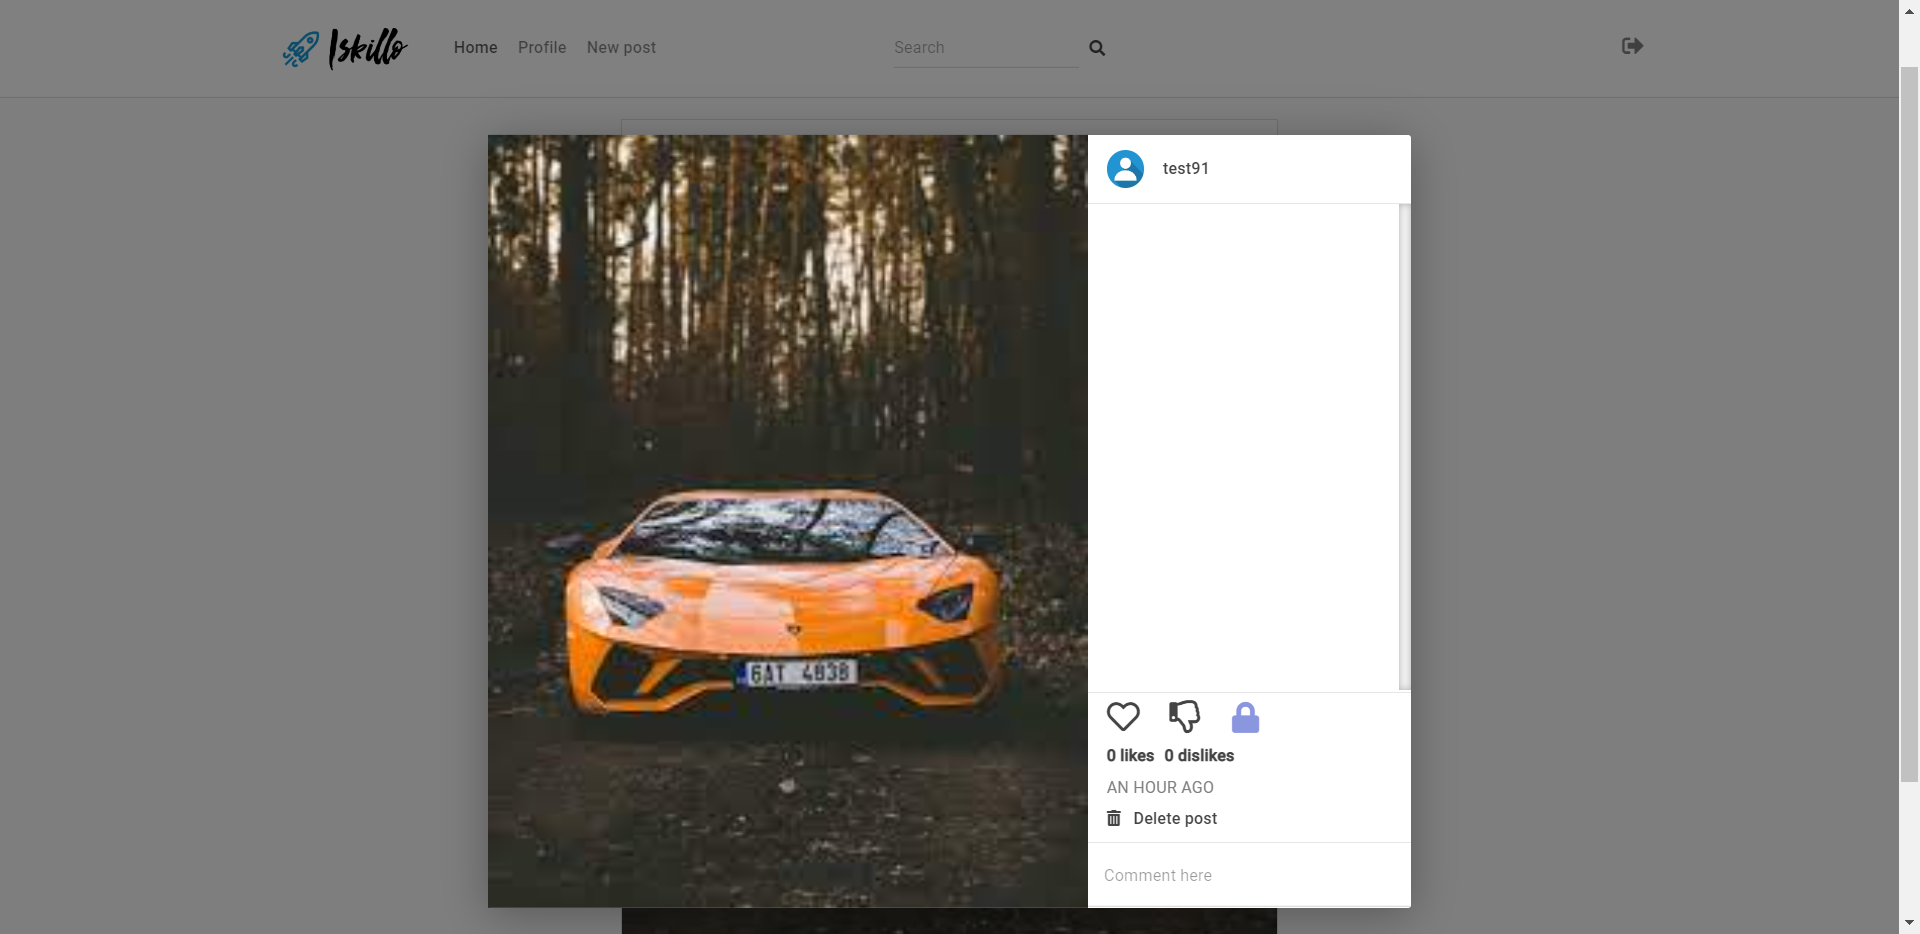
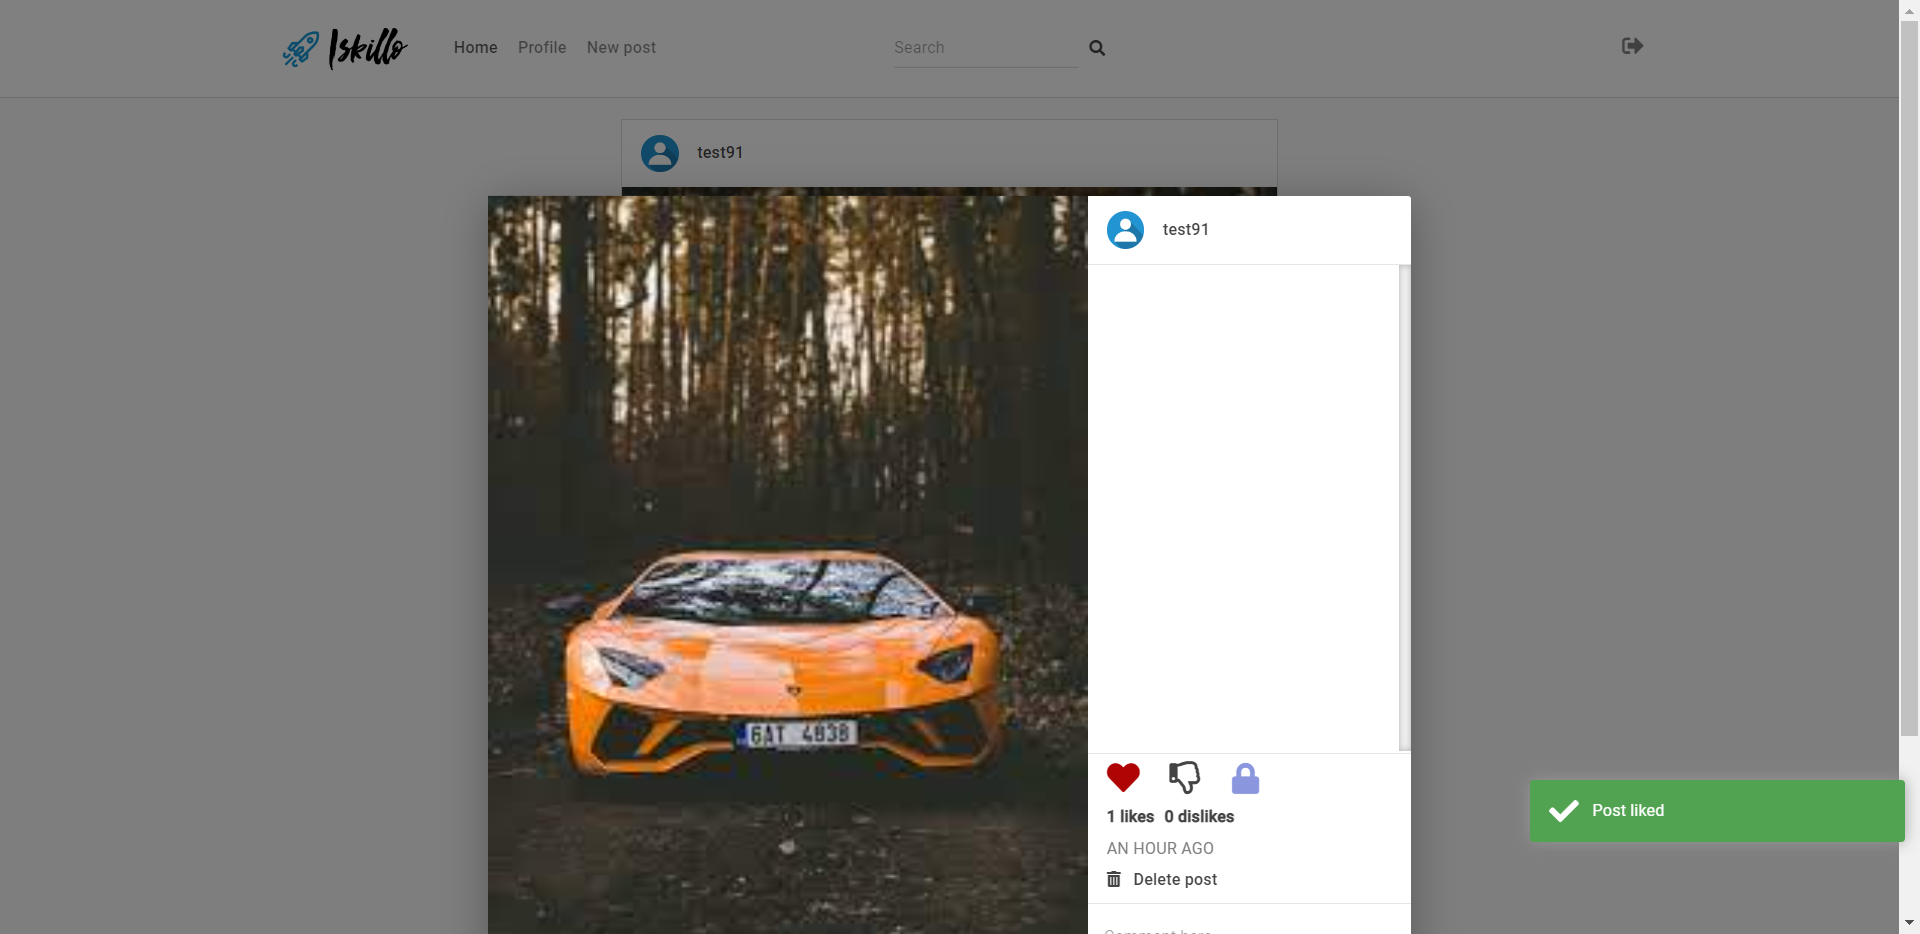
adding new test - create post failing adding logout test

diff --git a/src/test/java/pomtests/SmokeTests.java b/src/test/java/pomtests/SmokeTests.java
@@ -1,5 +1,6 @@
 package pomtests;
 
+import org.openqa.selenium.By;
 import org.openqa.selenium.support.ui.ExpectedConditions;
 import org.testng.Assert;
 import org.testng.annotations.*;
@@ -39,11 +40,10 @@ public class SmokeTests extends BaseTest {
     public void likePostTest() throws InterruptedException {
         driver.get("http://training.skillo-bg.com/");
         loginTest();
-      /*  defaultPage.clickLoginButton();
-        loginModal.enterUsername("test91");
-        loginModal.enterPassword("test91");
-        loginModal.clickSignIn();*/
         homePage.clickPostImage();
+/*
+        wait.until(ExpectedConditions.visibilityOf(driver.findElement(By.xpath("//div[@class='icons-container']/i[@class='like far fa-heart fa-2x']"))));
+*/
         postModal.clickHeartIcon();
 
         wait.until(ExpectedConditions.visibilityOf(postModal.getPostModalFilledHeartIcon()));

diff --git a/src/main/java/pages/PostModal.java b/src/main/java/pages/PostModal.java
@@ -10,13 +10,13 @@ public class PostModal extends BasePage {
        super(driver);
     }
 
-    @FindBy(xpath = "//div/i[@class='far fa-heart fa-2x']")
+    @FindBy(xpath = "//div[@class='icons-container']/i[@class='like far fa-heart fa-2x']")
     WebElement postModalHeartIcon;
 
     @FindBy(xpath = "//i[@class='ml-4 far fa-thumbs-down fa-2x']")
     WebElement postModalDislikeIcon;
 
-    @FindBy(xpath = "//i[@class='far fa-heart fa-2x liked']")
+    @FindBy(xpath = "//div[@class='icons-container']/i[@class='like far fa-heart fa-2x liked']")
     WebElement postModalFilledHeartIcon;
 
     public WebElement getPostModalFilledHeartIcon() {
